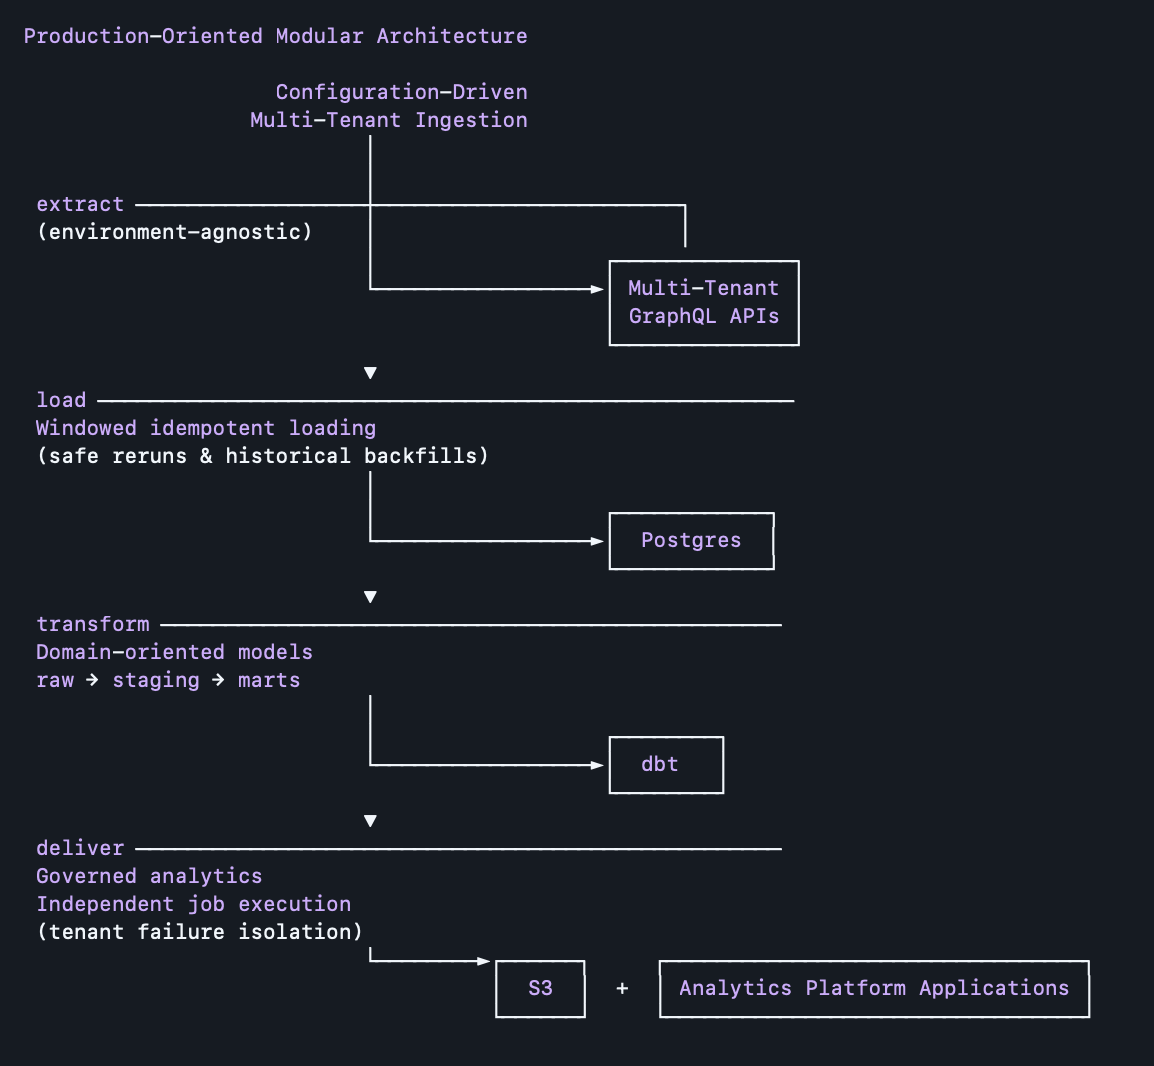
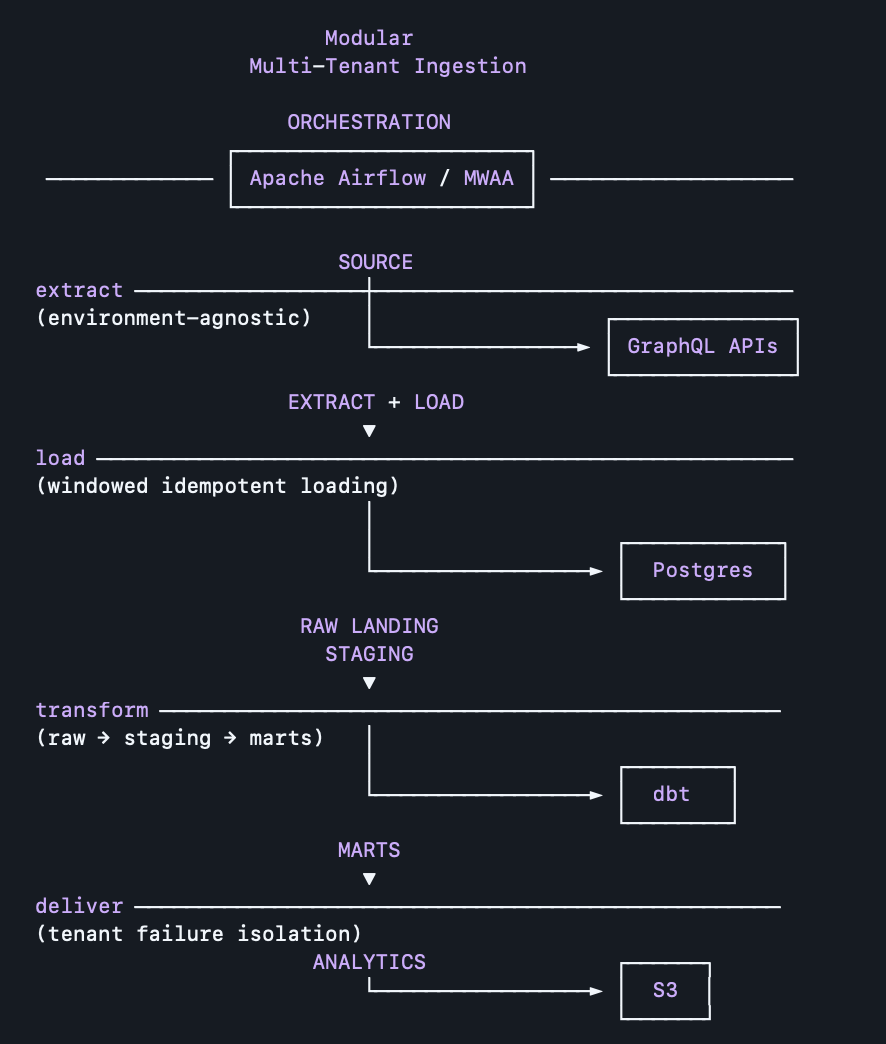
archh

diff --git a/arch_diagrams.md b/arch_diagrams.md
@@ -98,71 +98,81 @@ deliver ────────────────────────
 ### Pipeline 2 (Analytics)
 
 ```graphql
-    Modular Architecture
-		   │
-		   │
-		 extract: configuration-driven, environment agnostic
-		   │       ┌───────────┐ 
-		   ├───────┤  GraphQL  │
-		   │       └───────────┘
-		   ▼              
-		  load: idempotent load, raw_schema 
-		   │       ┌────────────┐ 
-		   ├───────┤  Postgres  │ 
-		   │       └────────────┘
-		   ▼ 
-		transform: staging, marts
-		   │       ┌───────┐ 
-		   ├───────┤  dbt  │
-		   │       └───────┘
-		   ▼  
-		 deliver: governed analytics
-		   └─────────►┬──────┐     
-			      │  S3  │   
-			      └──────┘    
+
+
+                 Modular Architecture
+	              	   │
+	              	   │
+	              	 extract: configuration-driven, environment agnostic
+	              	   │       ┌───────────┐ 
+		                 ├───────┤  GraphQL  │
+		                 │       └───────────┘
+		                 ▼              
+		                load: idempotent load, raw_schema 
+		                 │       ┌────────────┐ 
+		                 ├───────┤  Postgres  │ 
+		                 │       └────────────┘
+		                 ▼ 
+		              transform: staging, marts
+		                 │       ┌───────┐ 
+		                 ├───────┤  dbt  │
+		                 │       └───────┘
+		                 ▼  
+		               deliver: governed analytics
+		                 └─────────►┬──────┐     
+			                    │  S3  │   
+			                    └──────┘    
+
+
 ```
 
 
 
 
 ```graphql
+        
 
-                        Modular 
-                  Multi-Tenant Ingestion  
 
-                     ORCHESTRATION         
-                ┌───────────────────────┐
-  ───────────── │ Apache Airflow / MWAA │ ───────────────────
-                └───────────────────────┘
+
+                        Multi-Tenant ELT Ingestion Framework
+
+                                   ORCHESTRATION         
+                              ┌───────────────────────┐
+                ───────────── │ Apache Airflow / MWAA │ ───────────────────
+                              └───────────────────────┘
                     
-                         SOURCE
- extract ──────────────────┼─────────────────────────────────
- (environment-agnostic)    │                  ┌──────────────┐
-                           └────────────────► │ GraphQL APIs │   
-                                              └──────────────┘
-                     EXTRACT + LOAD           
-                           ▼                  
- load ───────────────────────────────────────────────────────
- (windowed idempotent loading)
-                           │
-                           │                   ┌────────────┐
-                           └─────────────────► │  Postgres  │
-                                               └────────────┘
-                      RAW LANDING
-                        STAGING
-                           ▼
- transform ─────────────────────────────────────────────────
- (raw → staging → marts)   │
-                           │                   ┌────────┐
-                           └─────────────────► │  dbt   │                 
-                                               └────────┘        
-                         MARTS
-                           ▼
- deliver ───────────────────────────────────────────────────
- (tenant failure isolation)
-                       ANALYTICS               ┌──────┐ 
-                           └─────────────────► │  S3  │  
-                                               └──────┘ 
+                                       SOURCE
+               extract ──────────────────┼─────────────────────────────────
+               (environment-agnostic)    │                  ┌──────────────┐
+                                         └────────────────► │ GraphQL APIs │   
+                                                            └──────────────┘
+                                   EXTRACT + LOAD           
+                                         ▼                  
+               load ───────────────────────────────────────────────────────
+               (windowed idempotent loading)
+                                         │
+                                         │                   ┌────────────┐
+                                         └─────────────────► │  Postgres  │
+                                                             └────────────┘
+                                    RAW LANDING
+                                      STAGING
+                                         ▼
+               transform ─────────────────────────────────────────────────
+               (raw → staging → marts)   │
+                                         │                   ┌────────┐
+                                         └─────────────────► │  dbt   │                 
+                                                             └────────┘        
+                                        MARTS
+                                         ▼
+               deliver ───────────────────────────────────────────────────
+               (tenant failure isolation)
+                                     ANALYTICS               ┌──────┐ 
+                                         └─────────────────► │  S3  │  
+                                                             └──────┘ 
+
+
+
+
 ```
 
 
